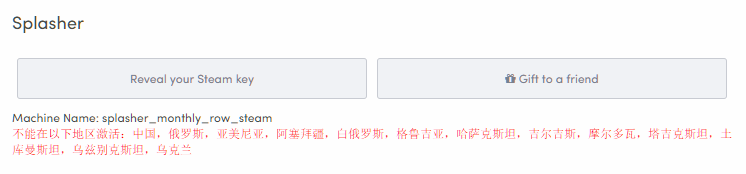
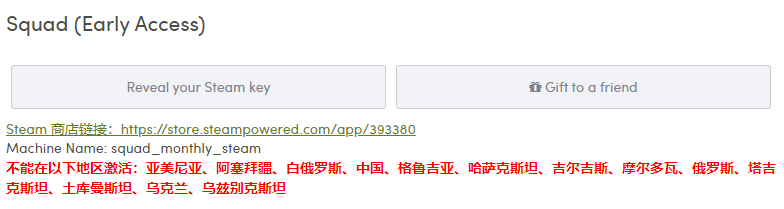
build: release 1.4.3

diff --git a/HKR.user.js b/HKR.user.js
@@ -4,7 +4,7 @@
 // @author       Cloud
 // @namespace    https://github.com/xPixv/Humble-Key-Restriction
 // @supportURL   https://github.com/xPixv/Humble-Key-Restriction/issues
-// @version      1.4.2
+// @version      1.4.3
 // @updateURL    https://github.com/xPixv/Humble-Key-Restriction/raw/master/HKR.meta.js
 // @downloadURL  https://github.com/xPixv/Humble-Key-Restriction/raw/master/HKR.user.js
 // @icon         https://humblebundle-a.akamaihd.net/static/hashed/46cf2ed85a0641bfdc052121786440c70da77d75.png
@@ -274,8 +274,19 @@
     ZW: '津巴布韦',
   };
 
-  /*Format: { Game Title : {exclusive_countries: Array(), disallowed_countries: Array(), machine_name: 'XXX'}, Game Title : {...}, ...} */
-  let productsInfo = [];
+  /*Format: 
+  { 
+    Game Title : {
+    exclusive_countries: Array<string>,
+    disallowed_countries: Array<string>,
+    machine_name: string,
+    team_app_id:? number
+    },
+    Game Title : {...},
+    ...
+  }
+  */
+  const productsInfo = [];
 
   const getProductsInfo = () => {
     const splitedURL = location.href.split(/downloads\?key=([A-Za-z0-9]+)/);
@@ -329,6 +340,9 @@
         let headingText = headingNode.item(0).firstElementChild.innerText.trim();
         const productInfo = productsInfo[headingText];
         if (productInfo) {
+          const insertElem = document.createElement('div');
+          insertElem.className = 'humble-key-restriction';
+
           // Add Steam Store Link
           if (productInfo.steam_app_id) {
             const steamAppElem = document.createElement('a');
@@ -336,15 +350,16 @@
             steamAppElem.setAttribute('lang', 'zh-CN');
             steamAppElem.textContent = `Steam 商店链接：https://store.steampowered.com/app/${productInfo.steam_app_id}`;
             steamAppElem.target = '_blank';
-            node.append(steamAppElem);
-            node.append(document.createElement('br'));
+            steamAppElem.rel = 'noopener';
+            insertElem.append(steamAppElem);
+            insertElem.append(document.createElement('br'));
           }
 
           // Add Machine Name
           const machineNameElem = document.createElement('span');
           machineNameElem.innerText = `Machine Name: ${productInfo.machine_name}`;
-          node.append(machineNameElem);
-          node.append(document.createElement('br'));
+          insertElem.append(machineNameElem);
+          insertElem.append(document.createElement('br'));
 
           // Add restriction information
           if (productInfo.exclusive_countries.length === 0 && productInfo.disallowed_countries.length === 0) {
@@ -352,31 +367,32 @@
             noRestrictionElem.setAttribute('style', 'color: #97B147; font-weight: bold;');
             noRestrictionElem.setAttribute('lang', 'zh-CN');
             noRestrictionElem.innerText = '无激活限制';
-            node.append(noRestrictionElem);
+            insertElem.append(noRestrictionElem);
           } else {
             if (productInfo.exclusive_countries.length > 0) {
               const exclusiveCountryElem = document.createElement('span');
               exclusiveCountryElem.setAttribute('style', 'color:red; font-weight: bold; word-wrap:break-word; overflow:hidden;');
               exclusiveCountryElem.setAttribute('lang', 'zh-CN');
               exclusiveCountryElem.innerText = `只能在以下地区激活：${translate(productInfo.exclusive_countries)}`;
-              node.append(exclusiveCountryElem);
-              node.append(document.createElement('br'));
+              insertElem.append(exclusiveCountryElem);
+              insertElem.append(document.createElement('br'));
             }
             if (productInfo.disallowed_countries.length > 0) {
               const disallowedCountryElem = document.createElement('span');
               disallowedCountryElem.setAttribute('style', 'color:red; font-weight: bold; word-wrap:break-word; overflow:hidden;');
               disallowedCountryElem.setAttribute('lang', 'zh-CN');
               disallowedCountryElem.innerText = `不能在以下地区激活：${translate(productInfo.disallowed_countries)}`;
-              node.append(disallowedCountryElem);
+              insertElem.append(disallowedCountryElem);
             }
           }
+          node.querySelector('.container').after(insertElem);
         }
       }
     }
   };
 
   const translate = arr => {
-    return arr.map(attr => localization[attr]).reduce((a, b) => `${a}，${b}`);
+    return arr.map(attr => localization[attr]).reduce((a, b) => `${a}、${b}`);
   };
 
   getProductsInfo();

diff --git a/HKR.meta.js b/HKR.meta.js
@@ -1,3 +1,3 @@
 // ==UserScript==
-// @version 1.4.2
+// @version 1.4.3
 // ==/UserScript==

diff --git a/CHANGELOG.md b/CHANGELOG.md
@@ -1,6 +1,10 @@
+## 1.4.3
+- 插入内容到 CDKey 下第一个元素，防止中间元(guang)素(gao)过多内容分散
+- 优化插入策略，提高性能（虽然并不存在性能问题 _(:з
+
 ## 1.4.2
 
-- 插入元素添加 lang 属性，防止字体回落到宋体，#6
+- 插入元素添加 lang 属性，防止字体回落到宋体，[#6](https://github.com/xPixv/Humble-Key-Restriction/pull/6)
 
 ## 1.4.1
 
@@ -13,7 +17,7 @@
 
 ## 1.3.1
 
-- 解决与其它脚本的冲突，#4
+- 解决与其它脚本的冲突，[#4](https://github.com/xPixv/Humble-Key-Restriction/pull/4)
 
 ## 1.2.0
 
